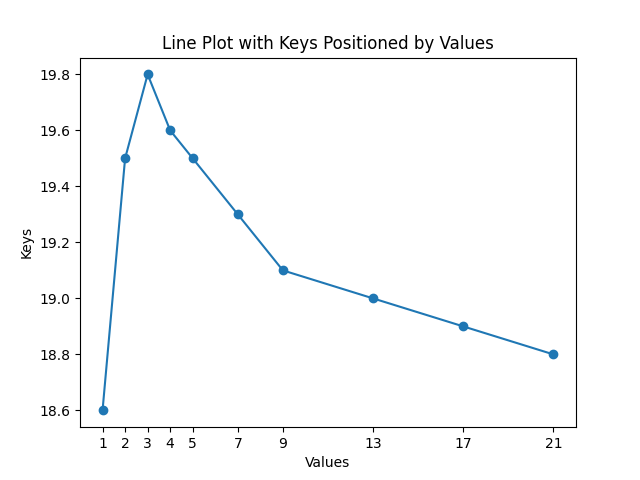
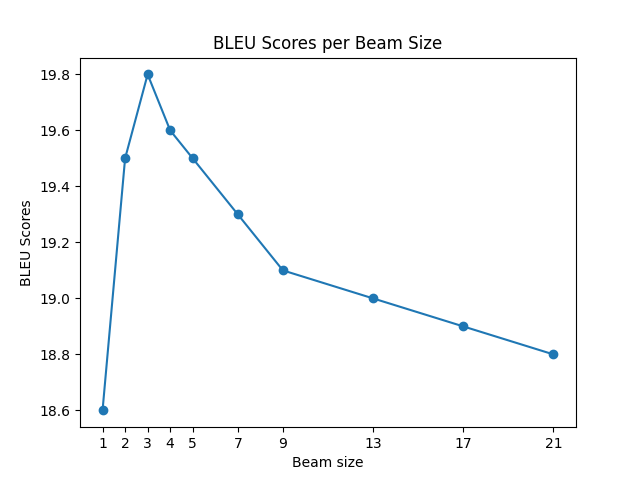
script for plotting beam size vs bleu -fix

Changed region(s): [[0.25, 0.0625, 0.7812, 0.125], [0.4375, 0.9375, 0.5625, 1.0], [0.0312, 0.4062, 0.0625, 0.5938]]

diff --git a/scripts/plot_bleu_beam_sizes.py b/scripts/plot_bleu_beam_sizes.py
@@ -21,9 +21,6 @@ plt.ylabel('BLEU Scores')
 plt.title('BLEU Scores per Beam Size')
 plt.xticks(list(data.keys()))
 
-plt.xlabel('Values')
-plt.ylabel('Keys')
-plt.title('Line Plot with Keys Positioned by Values')
 
 plt.savefig('line_plot.png')
 plt.show()
